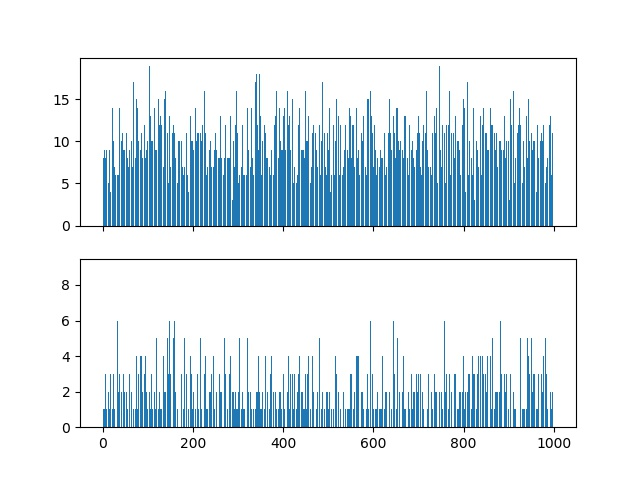
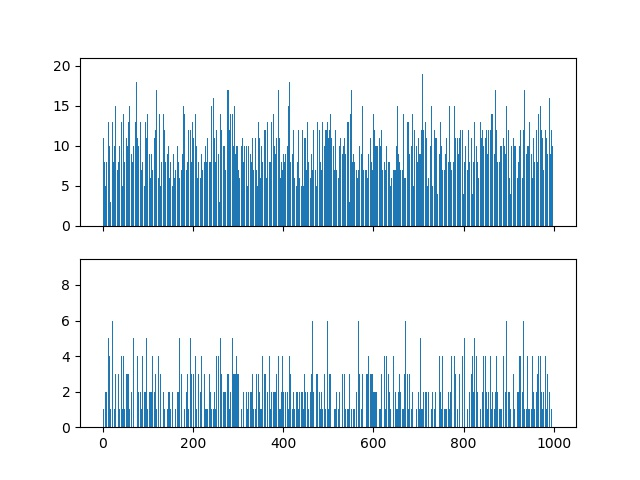
Fix distribution

diff --git a/Assignment/B/a_main.cpp b/Assignment/B/a_main.cpp
@@ -73,47 +73,38 @@ int main(int argc, char *argv[])
     hash::k_universal_family<ItemType> kuf(k);
 
     std::uniform_int_distribution<ItemType> ud(0, r - 1);
-    std::vector<sampler::l0_insertion<ItemType>> ul0ks;
-    ul0ks.reserve(t);
+    std::vector<sampler::l0_insertion<ItemType>> l0ks;
+    l0ks.reserve(t);
     for (uint64_t i = 0; i < t; ++i)
-        ul0ks.emplace_back(r, kuf());
+        l0ks.emplace_back(r, kuf());
     for (uint64_t i = 0; i < s; ++i)
     {
         uint64_t v = ud(g);
         ++vs[v];
-        for (auto & ul0k : ul0ks)
-            ul0k += v;
+        for (auto & l0k : l0ks)
+            l0k += v;
     }
-    for (auto const & ul0k : ul0ks)
-    {
-        uint64_t s = ul0k;
-        std::cerr << "    " << s << std::endl;
-        ++vlk[s];
-    }
+    for (auto const & l0k : l0ks)
+        ++vlk[l0k];
     for (uint64_t i = 0; i < r; ++i)
         std::cout << i << " " << vs[i] << " " << vlk[i] << std::endl;
 
-    vs.clear();
-    vlk.clear();
+    vs = std::vector<ItemType>(r);
+    vlk = std::vector<ItemType>(r);
 
     std::binomial_distribution<ItemType> ub(r - 1, p);
-    std::vector<sampler::l0_insertion<ItemType>> bl0ks;
-    bl0ks.reserve(t);
+    l0ks.clear();
     for (uint64_t i = 0; i < t; ++i)
-        bl0ks.emplace_back(r, kuf());
+        l0ks.emplace_back(r, kuf());
     for (uint64_t i = 0; i < s; ++i)
     {
         uint64_t v = ub(g);
         ++vs[v];
-        for (auto & bl0k : bl0ks)
-            bl0k += v;
+        for (auto & l0k : l0ks)
+            l0k += v;
     }
-    for (auto const & bl0k : bl0ks)
-    {
-        uint64_t s = bl0k;
-        std::cerr << "    " << s << std::endl;
-        ++vlk[s];
-    }
+    for (auto const & l0k : l0ks)
+        ++vlk[l0k];
     for (uint64_t i = 0; i < r; ++i)
         std::cout << i << " " << vs[i] << " " << vlk[i] << std::endl;
 

diff --git a/Assignment/B/prime.hpp b/Assignment/B/prime.hpp
@@ -12,7 +12,7 @@ struct mersenne
     uint64_t const s, p;
 
     template<typename T, std::enable_if_t<std::is_unsigned_v<T>, bool> = true>
-    inline constexpr uint64_t operator()(T k) const
+    inline constexpr uint64_t operator()(T k) const noexcept
     {
         uint64_t i = k & p;
         i += k >> s;
@@ -20,13 +20,13 @@ struct mersenne
     }
 
     template<typename T, std::enable_if_t<std::is_signed_v<T>, bool> = true>
-    inline constexpr uint64_t operator()(T k) const
+    inline constexpr uint64_t operator()(T k) const noexcept
     {
         return k >= 0 ? operator()(uint64_t(k)) : p - operator()(uint64_t(-k));
     }
 private:
     friend struct mersennes;
-    constexpr mersenne(uint64_t s) : p((uint64_t(1) << s) - 1), s(s) {}
+    constexpr mersenne(uint64_t s) noexcept : p((uint64_t(1) << s) - 1), s(s) {}
 
     mersenne(mersenne const &) = delete;
     mersenne(mersenne &&) = delete;

diff --git a/Assignment/B/sampler.hpp b/Assignment/B/sampler.hpp
@@ -29,7 +29,7 @@ struct l0_insertion final
         return *this;
     }
 
-    operator T() const
+    operator T() const noexcept
     {
         return *aref;
     }
